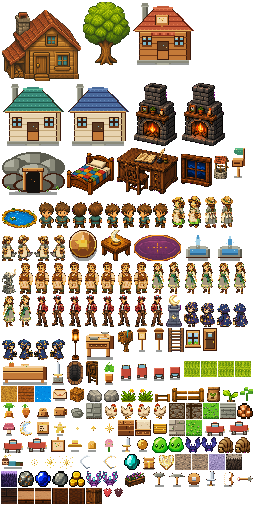
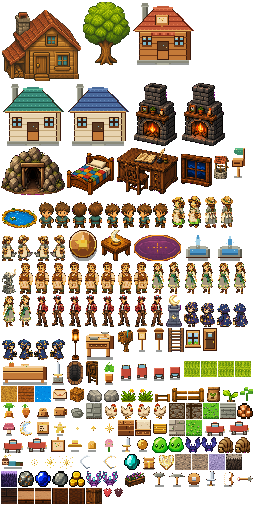
Center the cave door and replace the code mound with painted rock.

Changed region(s): [[0.0, 0.2673, 0.25, 0.3861]]

diff --git a/index.html b/index.html
@@ -981,7 +981,7 @@
     reserveRect(taken, FARM.x0, FARM.y0, FARM.x1, FARM.y1);
     reserveRect(taken, 16, 31, 63, 39);
     reserveRect(taken, 38, 20, 63, 38);
-    reserveRect(taken, portalIn.tx, portalIn.ty, portalIn.tx, portalIn.ty + 1);
+    reserveRect(taken, portalIn.tx, portalIn.ty, portalIn.tx + 1, portalIn.ty + 1);
     reserveRect(taken, houseIn.tx, houseIn.ty, houseIn.tx, houseIn.ty + 1);
     markTile(taken, npc.tx, npc.ty);
     for (y = 0; y < rows; y++) {
@@ -1805,7 +1805,6 @@
       } else if (p.kind === "cave") {
         for (x = 0; x < 4; x++) block(p.tx + x, p.ty);
         block(p.tx, p.ty + 1);
-        block(p.tx + 2, p.ty + 1);
         block(p.tx + 3, p.ty + 1);
       } else if (
         p.kind === "tree" || p.kind === "well" || p.kind === "rock" ||
@@ -2532,7 +2531,7 @@
   }
 
   function isMineEntrance(tx, ty) {
-    return currentScene === "overworld" && tx === portalIn.tx && ty === portalIn.ty;
+    return currentScene === "overworld" && ty === portalIn.ty && (tx === portalIn.tx || tx === portalIn.tx + 1);
   }
 
   function isHouseEntrance(tx, ty) {
@@ -5980,7 +5979,7 @@
 
   function goEnter() {
     highlight = { tx: portalIn.tx, ty: portalIn.ty };
-    if (player.tx === portalIn.tx && player.ty === portalIn.ty) {
+    if (isMineEntrance(player.tx, player.ty)) {
       enterMine();
       return;
     }
